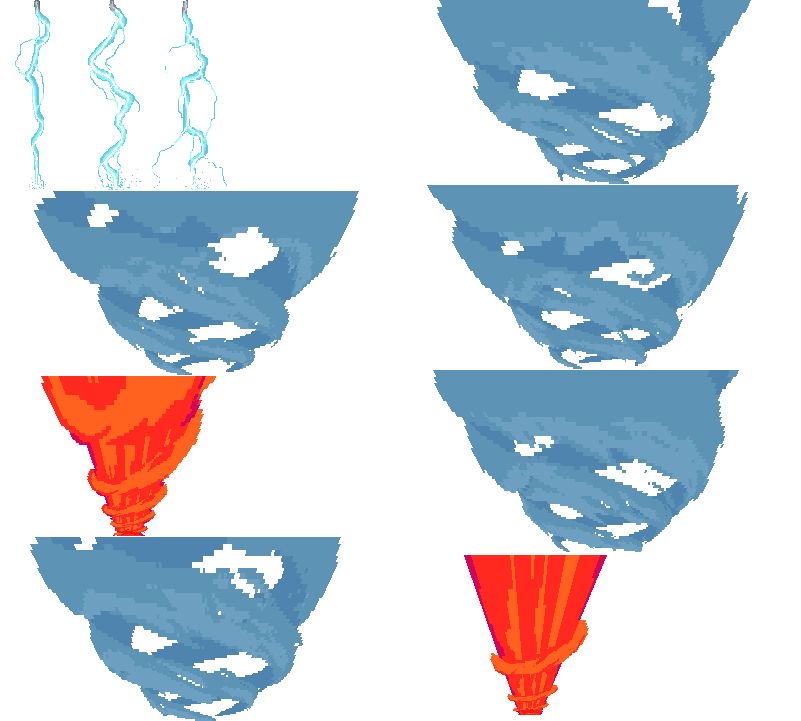
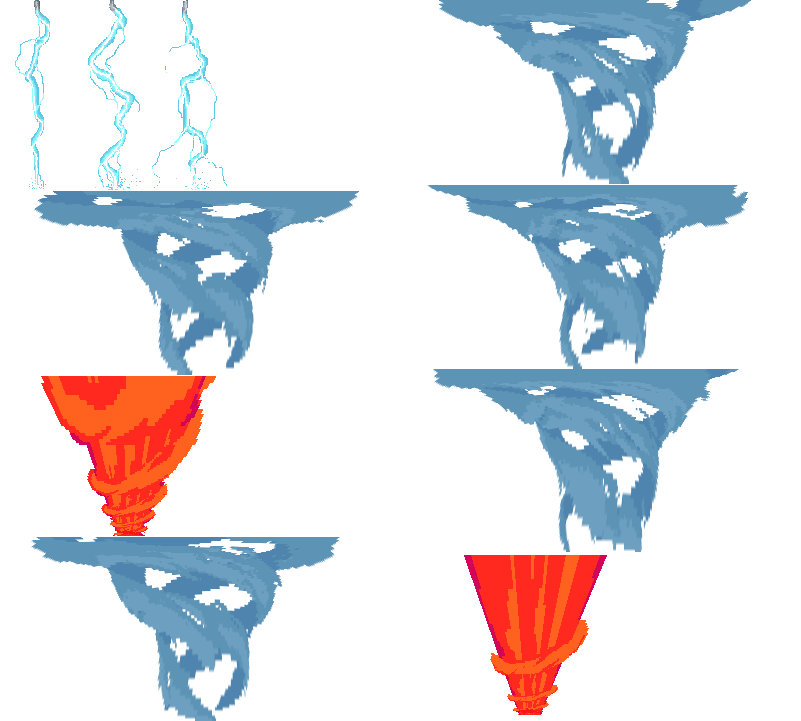
feat: added sfx

diff --git a/src/player/Player.js b/src/player/Player.js
@@ -440,6 +440,9 @@ export default class Player extends Phaser.GameObjects.Sprite {
       waterStorm.setOrigin(0.5, 0)
         .setPosition(this.scene.cameras.main.scrollX - 200, this.scene.cameras.main.scrollY + 56)
         .setVisible(true)
+        .setSize(400, 256)
+      waterStorm.height = 256
+        console.log(waterStorm)
       waterStorm.body.setSize(280, 256).setOffset(60, -60)
       this.scene.physics.world.enable(waterStorm);
       this.scene.add.existing(waterStorm);

diff --git a/src/scenes/PlayLvl1.js b/src/scenes/PlayLvl1.js
@@ -154,12 +154,14 @@ export default class playLvl1 extends Scene {
       allowGravity: false,
       createIfNull: true,
     });
+    this.player.waterMagic.height = 256;
     this.player.lavaMagic = this.physics.add.group({
       defaultKey: 'lava-storm',
       maxSize: 25,
       allowGravity: false,
       createIfNull: true,
     });
+    
     this.player.thunderMagic = this.physics.add.group({
       defaultKey: 'thunder-storm',
       maxSize: 25,

diff --git a/src/scenes/Load.js b/src/scenes/Load.js
@@ -64,7 +64,7 @@ export default class LoadSavedGame extends Scene {
         this.sound.play('bullet', { volume: 0.8 });
         this.choose(-1);
       } else if (this.keys.fire.isDown && event.key === this.keys.fire.originalEvent.key) {
-        this.sound.play('melo', { volume: 1 });
+        this.sound.play('swell', { volume: 0.8 });
         this.launch();
       }
     });

diff --git a/src/scenes/GameOver.js b/src/scenes/GameOver.js
@@ -48,7 +48,7 @@ export default class GameOver extends Scene {
         this.sound.play('bullet', { volume: 0.8 });
         this.choose(-1);
       } else if (this.keys.fire.isDown && event.key === this.keys.fire.originalEvent.key) {
-        this.sound.play('melo', { volume: 1 });
+        this.sound.play('swell', { volume: 0.8 });
         this.launch();
       }
     });

diff --git a/src/scenes/Intro.js b/src/scenes/Intro.js
@@ -41,7 +41,7 @@ export default class Intro extends Scene {
       .setTint(0xDDDDDD);
 
     this.input.keyboard.once('keydown', () => {
-      this.sound.play('melo', { volume: 0.8 });
+      this.sound.play('swell', { volume: 0.8 });
       this.scene.start('loadSavedGame');
     });
 
